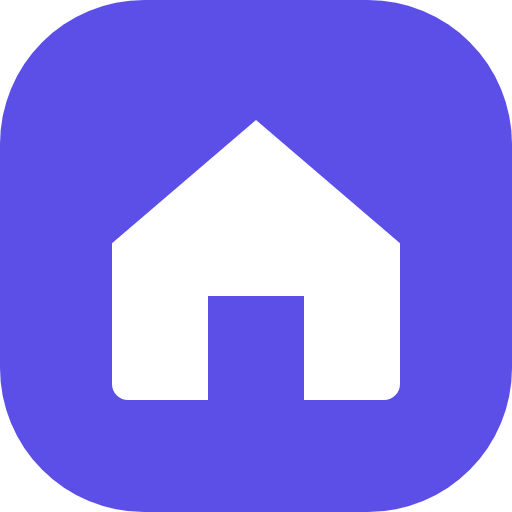
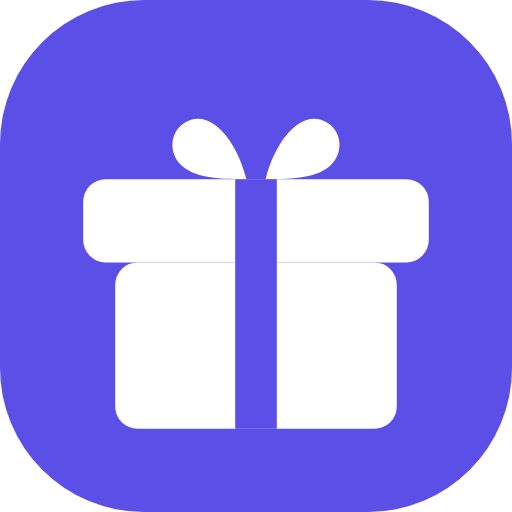
앱 이름을 모아콘으로 변경하고 선물상자 로고로 교체, 알림 아이콘 중복 제거
- 기존 "아워홈 기프티콘"이 실제 아워홈 브랜드와 겹쳐서 "모아콘"으로 변경
- 집 모양 로고를 이름에 맞는 선물상자 모양으로 교체 (Logo 컴포넌트,
  favicon/icon.svg/icon.png/icon-192/icon-512 모두 재생성)
- 알림에서 icon 옵션 제거: 안드로이드가 왼쪽에 앱 아이콘을 자동으로 붙여주는데
  icon까지 주면 오른쪽에 같은 아이콘이 하나 더 붙어 지저분해지던 문제 수정

Changed region(s): [[0.1562, 0.2188, 0.8438, 0.8438]]

diff --git a/client/src/components/Logo.jsx b/client/src/components/Logo.jsx
@@ -2,7 +2,11 @@ export default function Logo({ className }) {
   return (
     <svg viewBox="0 0 32 32" className={className} fill="none" xmlns="http://www.w3.org/2000/svg" aria-hidden="true">
       <rect width="32" height="32" rx="9" fill="#5B4FE8" />
-      <path d="M16 7.5L25 15.2V24C25 24.5523 24.5523 25 24 25H19V18.5H13V25H8C7.44772 25 7 24.5523 7 24V15.2L16 7.5Z" fill="white" />
+      <path d="M15.4 11.2C13.6 11.2 12.1 11.1 11.3 10.3C10.4 9.4 10.7 7.9 11.9 7.5C13.3 7 14.8 8.8 15.4 11.2Z" fill="white" />
+      <path d="M16.6 11.2C18.4 11.2 19.9 11.1 20.7 10.3C21.6 9.4 21.3 7.9 20.1 7.5C18.7 7 17.2 8.8 16.6 11.2Z" fill="white" />
+      <rect x="5.2" y="11.2" width="21.6" height="5.2" rx="1.4" fill="white" />
+      <rect x="7.2" y="16.4" width="17.6" height="10.4" rx="1.4" fill="white" />
+      <rect x="14.7" y="11.2" width="2.6" height="15.6" fill="#5B4FE8" />
     </svg>
   );
 }

diff --git a/client/public/sw.js b/client/public/sw.js
@@ -11,9 +11,8 @@ self.addEventListener('push', (event) => {
   event.waitUntil(
     self.registration.showNotification(data.title, {
       body: data.body,
-      icon: `${BASE}icon-192.png`,
-      // badge는 일부러 지정하지 않는다. 지정하면 큰 아이콘 옆에 작은 아이콘이 하나 더
-      // 붙어서 보기 지저분해서, 큰 아이콘 하나만 나오도록 뒀다.
+      // icon/badge는 일부러 지정하지 않는다. 안드로이드가 왼쪽에 앱 아이콘을 자동으로
+      // 붙여주는데, 여기서 icon까지 주면 오른쪽에 같은 아이콘이 하나 더 붙어서 지저분해진다.
       tag: 'gifticon-expiry',
       renotify: true,
     })

diff --git a/client/src/components/LoginScreen.jsx b/client/src/components/LoginScreen.jsx
@@ -86,7 +86,7 @@ export default function LoginScreen() {
     <div className="mx-auto flex min-h-dvh w-full max-w-[480px] flex-col items-center justify-center gap-6 bg-background px-6">
       <div className="flex flex-col items-center gap-3">
         <Logo className="size-12" />
-        <h1 className="m-0 text-xl font-bold text-foreground">아워홈 기프티콘</h1>
+        <h1 className="m-0 text-xl font-bold text-foreground">모아콘</h1>
         <p className="m-0 text-center text-sm text-muted-foreground">가족과 기프티콘을 함께 관리해보세요.</p>
       </div>
 

diff --git a/client/index.html b/client/index.html
@@ -9,8 +9,8 @@
     <link rel="manifest" href="manifest.json" />
     <meta name="viewport" content="width=device-width, initial-scale=1, viewport-fit=cover, maximum-scale=1" />
     <meta name="theme-color" content="#5B4FE8" />
-    <title>아워홈 기프티콘</title>
-    <meta name="description" content="우리 부부의 기프티콘을 한곳에서 관리하는 사이트" />
+    <title>모아콘</title>
+    <meta name="description" content="가족·친구와 기프티콘을 모아서 함께 관리하는 사이트" />
   </head>
   <body>
     <div id="root"></div>

diff --git a/client/src/components/Header.jsx b/client/src/components/Header.jsx
@@ -11,7 +11,7 @@ export default function Header() {
     <header className="flex flex-col gap-1 px-5 pt-[max(16px,env(safe-area-inset-top))] pb-2">
       <div className="flex items-center gap-2.5">
         <Logo className="size-7 shrink-0" />
-        <h1 className="m-0 flex-1 text-xl font-bold text-foreground">아워홈 기프티콘</h1>
+        <h1 className="m-0 flex-1 text-xl font-bold text-foreground">모아콘</h1>
         <NotificationToggle />
         <ThemeToggle />
         <button

diff --git a/client/src/components/PushTestButton.jsx b/client/src/components/PushTestButton.jsx
@@ -30,7 +30,6 @@ export default function PushTestButton() {
         registration
           .showNotification('유효기한이 곧 만료돼요', {
             body: '스타벅스 · 아이스 아메리카노 T\n7일 남았어요 (테스트 알림)',
-            icon: `${import.meta.env.BASE_URL}icon-192.png`,
             tag: 'gifticon-expiry',
             renotify: true,
           })

diff --git a/README.md b/README.md
@@ -1,4 +1,4 @@
-# 아워홈 기프티콘
+# 모아콘 (기프티콘 모아보기)
 
 가족끼리 함께 쓰는 기프티콘 관리 사이트. 카카오톡/문자로 받은 기프티콘 이미지를 업로드하면
 바코드·QR·이름·금액·유효기한을 자동으로 인식해 채워주고, 만료일이 얼마 안 남은 순서로 목록을 보여줍니다.
@@ -122,7 +122,7 @@ Supabase가 기본 지원하는 제공자라 어렵지 않습니다.
 > 추가하는 형태로 진행하면, Client ID/Secret 하나를 두 기능이 같이 씁니다.
 
 1. [네이버 검색 API 신청 페이지](https://developers.naver.com/products/service-api/search/search.md)로 이동
-   → 페이지 아래 **"오픈 API 이용 신청"** 버튼 클릭 → 기존 애플리케이션(아워홈-기프티콘)에
+   → 페이지 아래 **"오픈 API 이용 신청"** 버튼 클릭 → 기존 애플리케이션에
    검색 API 추가 → 웹 서비스 URL에 배포 주소(`https://ceaser501.github.io/our-home-gift/`) 입력
 2. [Supabase CLI](https://supabase.com/docs/guides/cli) 설치 (`npm install -g supabase` 또는 `brew install supabase/tap/supabase`)
 3. 저장소 루트에서:
